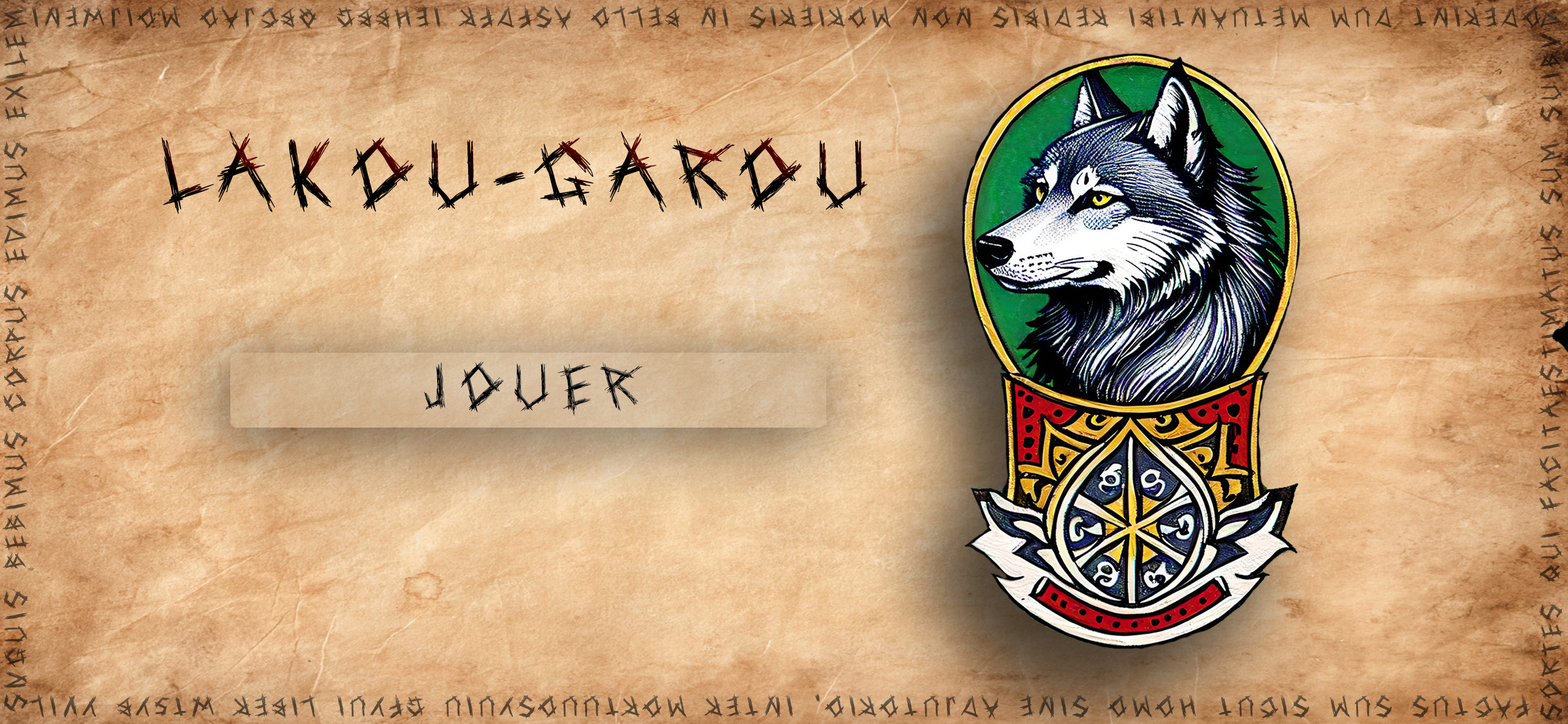
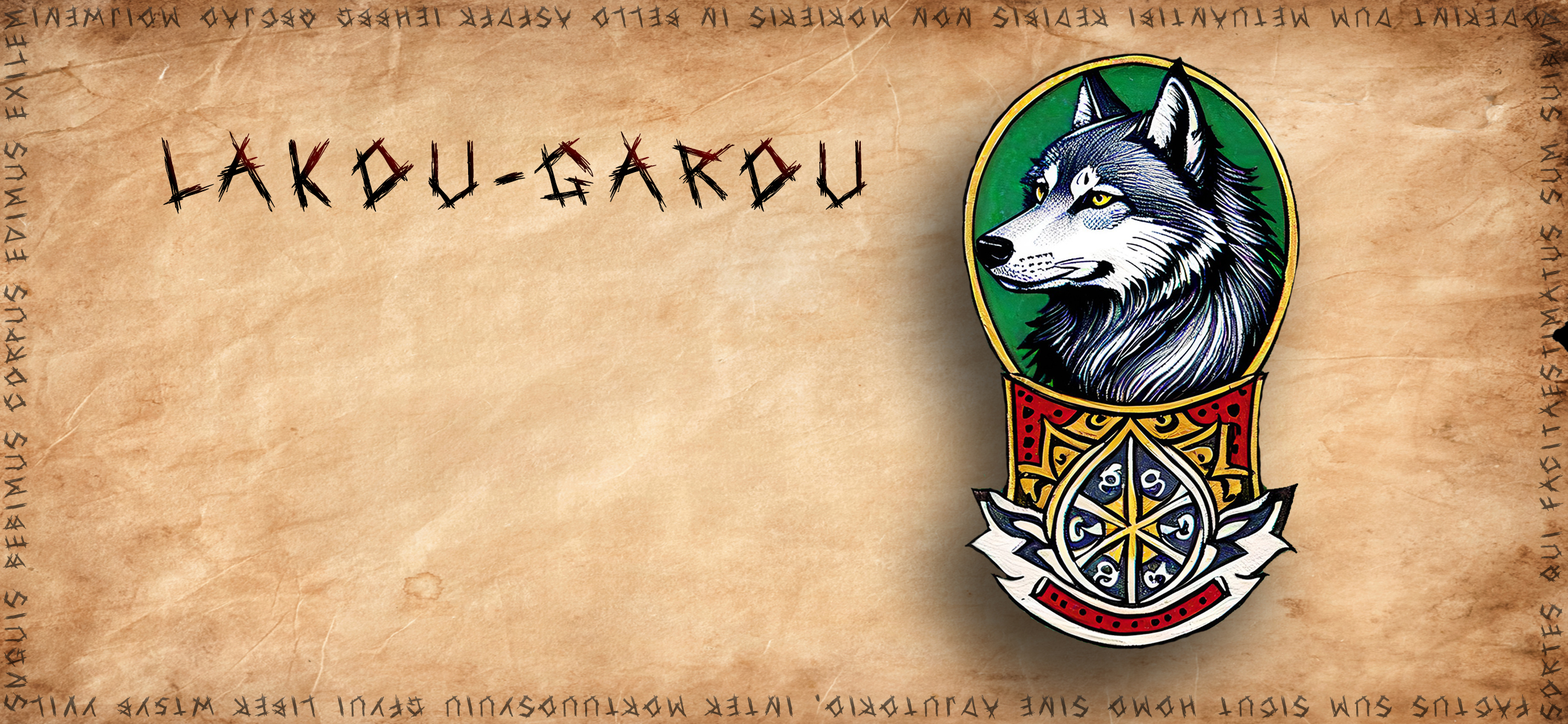
Travaux...

Changed region(s): [[0.1248, 0.4308, 0.5616, 0.6769]]

diff --git a/output/index.html b/output/index.html
@@ -5,7 +5,6 @@
     <link rel="stylesheet" href="styles/style.css">
     <link rel="manifest" href="/site.webmanifest">
     <link rel="icon" type="image/x-icon" href="/favicon.ico">
-    <link rel="icon" type="image/x-icon" href="/favicon.ico">
     <style type="text/css"></style>
     <script src="js/libs/socket.io.min.js" defer></script>
     <script src="js/parts/redirect.js" defer></script>
@@ -14,7 +13,7 @@
   </head>
 </html>
 <body>
-  <div class="grid h-screen place-items-center">
+  <div class="grid h-screen place-items-center relative z-10">
     <div class="w-full max-w-xs">
       <form class="bg-white shadow-md rounded px-8 pt-6 pb-8 mb-4">
         <div class="mb-4">
@@ -27,10 +26,33 @@
           <p class="text-red-500 text-xs italic">SVP entrez votre mot de passe.</p>
         </div>
         <div class="flex items-center justify-between">
-          <button class="bg-blue-500 text-white font-bold py-2 px-4 rounded hover:bg-blue-700 focus:outline-none focus:shadow-outline" type="button" onclick="sendConnectionData()">Se connecter</button><a class="inline-block align-baseline font-bold text-sm text-blue-500 hover:text-blue-800" href="/register">Créer un compte?</a>
+          <button class="bg-blue-500 text-white font-bold py-2 px-4 rounded hover:bg-blue-700 focus:outline-none focus:shadow-outline" id="myBtn" type="button" onclick="sendConnectionData()">Se connecter</button><a class="inline-block align-baseline font-bold text-sm text-blue-500 hover:text-blue-800" href="/register">Créer un compte?</a>
         </div>
       </form>
-      <p class="text-center text-gray-500 text-xs">&copy;2023 Lakou productions. All rights reserved. </p>
+      <p class="text-center text-gray-500 text-xs">&copy;2023 Lakou productions. All rights reserved.</p>
+      <script>
+        // Adding a trigger to login fi the user presses enter after typing in the password field
+        let input = document.getElementById("password");
+        input.addEventListener("keypress", function(event) {
+        // If the user presses the "Enter" key on the keyboard
+        if (event.key === "Enter") {
+        // Cancel the default action, if needed
+        event.preventDefault();
+        // Trigger the button element with a click
+        document.getElementById("myBtn").click();
+          }
+        }); 
+      </script>
     </div>
   </div>
+  <section class="loadingScreen"> 
+    <div class="top-0 absolute w-full h-screen bg-center bg-cover" id="loadingImage" style="Background-image: url('assets/img/menu/Loading screen.jpg')"></div>
+  </section>
+  <script>
+    var element = document.getElementById("loadingImage");
+    if (element)
+    {
+      element.classList.add("visible");
+    }
+  </script>
 </body>

diff --git a/output/ztemplates/login.html b/output/ztemplates/login.html
@@ -1,5 +1,5 @@
 
-<div class="grid h-screen place-items-center">
+<div class="grid h-screen place-items-center relative z-10">
   <div class="w-full max-w-xs">
     <form class="bg-white shadow-md rounded px-8 pt-6 pb-8 mb-4">
       <div class="mb-4">
@@ -12,9 +12,22 @@
         <p class="text-red-500 text-xs italic">SVP entrez votre mot de passe.</p>
       </div>
       <div class="flex items-center justify-between">
-        <button class="bg-blue-500 text-white font-bold py-2 px-4 rounded hover:bg-blue-700 focus:outline-none focus:shadow-outline" type="button" onclick="sendConnectionData()">Se connecter</button><a class="inline-block align-baseline font-bold text-sm text-blue-500 hover:text-blue-800" href="/register">Créer un compte?</a>
+        <button class="bg-blue-500 text-white font-bold py-2 px-4 rounded hover:bg-blue-700 focus:outline-none focus:shadow-outline" id="myBtn" type="button" onclick="sendConnectionData()">Se connecter</button><a class="inline-block align-baseline font-bold text-sm text-blue-500 hover:text-blue-800" href="/register">Créer un compte?</a>
       </div>
     </form>
-    <p class="text-center text-gray-500 text-xs">&copy;2023 Lakou productions. All rights reserved. </p>
+    <p class="text-center text-gray-500 text-xs">&copy;2023 Lakou productions. All rights reserved.</p>
+    <script>
+      // Adding a trigger to login fi the user presses enter after typing in the password field
+      let input = document.getElementById("password");
+      input.addEventListener("keypress", function(event) {
+      // If the user presses the "Enter" key on the keyboard
+      if (event.key === "Enter") {
+      // Cancel the default action, if needed
+      event.preventDefault();
+      // Trigger the button element with a click
+      document.getElementById("myBtn").click();
+        }
+      }); 
+    </script>
   </div>
 </div>

diff --git a/public/styles/style.css b/public/styles/style.css
@@ -476,6 +476,27 @@ video {
   --tw-backdrop-saturate:  ;
   --tw-backdrop-sepia:  ;
 }
+.visible {
+  visibility: visible;
+}
+.absolute {
+  position: absolute;
+}
+.relative {
+  position: relative;
+}
+.left-64 {
+  left: 16rem;
+}
+.top-0 {
+  top: 0px;
+}
+.top-72 {
+  top: 18rem;
+}
+.z-10 {
+  z-index: 10;
+}
 .mx-auto {
   margin-left: auto;
   margin-right: auto;
@@ -533,6 +554,15 @@ video {
 }
 .max-w-xs {
   max-width: 20rem;
+}
+@keyframes pulse {
+
+  50% {
+    opacity: .5;
+  }
+}
+.animate-pulse {
+  animation: pulse 2s cubic-bezier(0.4, 0, 0.6, 1) infinite;
 }
 .appearance-none {
   -webkit-appearance: none;
@@ -654,6 +684,10 @@ video {
   font-size: 1.5rem;
   line-height: 2rem;
 }
+.text-4xl {
+  font-size: 2.25rem;
+  line-height: 2.5rem;
+}
 .text-sm {
   font-size: 0.875rem;
   line-height: 1.25rem;
@@ -735,6 +769,20 @@ video {
     font-family: "HelpMe";
     src: url('../assets/font/HelpMe.woff2') format('woff2')
   }
+
+
+/*FADE OUT */
+.hidden {
+visibility: hidden;
+opacity: 0;
+transition: visibility 0s 2s, opacity 2s linear;
+}
+
+.visible {
+    visibility: visible;
+    opacity: 1;
+    transition: visibility 0s 2s, opacity 2s linear;  
+}
 
 .hover\:bg-blue-700:hover {
   --tw-bg-opacity: 1;

diff --git a/server.js b/server.js
@@ -15,6 +15,9 @@ const server = http.createServer(app);
         res.sendFile(__dirname + '/output/zpages/register.html');
     });
 
+    app.get('/lobby', (req, res) => {
+        res.sendFile(__dirname + '/output/zpages/lobby.html');
+    });
 
     app.get('/game', (req, res) => {
         res.sendFile(__dirname + '/output/zpages/game.html');
@@ -80,7 +83,7 @@ function getUserID(socketData) {
 function login(socket)
 {
     console.log("login")
-    let redirection = { "url": "/game"}
+    let redirection = { "url": "/lobby"}
     socket.emit("redirectTo", redirection)
 }
 

diff --git a/output/zpages/lobby.html b/output/zpages/lobby.html
@@ -14,4 +14,14 @@
 </html>
 <section class="welcome"> 
   <div class="w-full h-screen bg-center bg-cover" style="Background-image: url('assets/img/menu/Menu 1.jpg')"></div>
+  <div> 
+    <button class="absolute left-64 top-72 animate-pulse setFont_HelpMe text-4xl" onclick="testa()">Jouer 
+      <script>
+        function testa()
+        {
+            console.log("Okiiie")
+        }
+      </script>
+    </button>
+  </div>
 </section>

diff --git a/output/zpages/register.html b/output/zpages/register.html
@@ -5,7 +5,6 @@
     <link rel="stylesheet" href="styles/style.css">
     <link rel="manifest" href="/site.webmanifest">
     <link rel="icon" type="image/x-icon" href="/favicon.ico">
-    <link rel="icon" type="image/x-icon" href="/favicon.ico">
     <style type="text/css"></style>
     <script src="js/libs/socket.io.min.js" defer></script>
     <script src="js/parts/redirect.js" defer></script>

diff --git a/public/styles/tailwind.css b/public/styles/tailwind.css
@@ -15,3 +15,17 @@
     font-family: "HelpMe";
     src: url('../assets/font/HelpMe.woff2') format('woff2')
   }
+
+
+/*FADE OUT */
+.hidden {
+visibility: hidden;
+opacity: 0;
+transition: visibility 0s 2s, opacity 2s linear;
+}
+
+.visible {
+    visibility: visible;
+    opacity: 1;
+    transition: visibility 0s 2s, opacity 2s linear;  
+}

diff --git a/output/ztemplates/head.html b/output/ztemplates/head.html
@@ -12,6 +12,3 @@
     <script src="js/app.js" defer></script>
   </head>
 </html>
-<section class="welcome"> 
-  <div class="w-full h-screen bg-center bg-cover" style="Background-image: url('assets/img/menu/Menu 1.jpg')"></div>
-</section>

diff --git a/public/js/parts/redirect.js b/public/js/parts/redirect.js
@@ -4,7 +4,7 @@ function redirectEvent(socket)
 {
 
     socket.on('redirectTo', (data)=>{
-        window.location.replace(data.url)
+        window.location.href = data.url
     })
 
 

diff --git a/public/js/app.js b/public/js/app.js
@@ -3,6 +3,7 @@ console.log("HELLO!")
 var ipAddress = "localhost"
 var port = 3000
 
+
 var socket = io.connect("http://localhost:3000"); 
 
 
